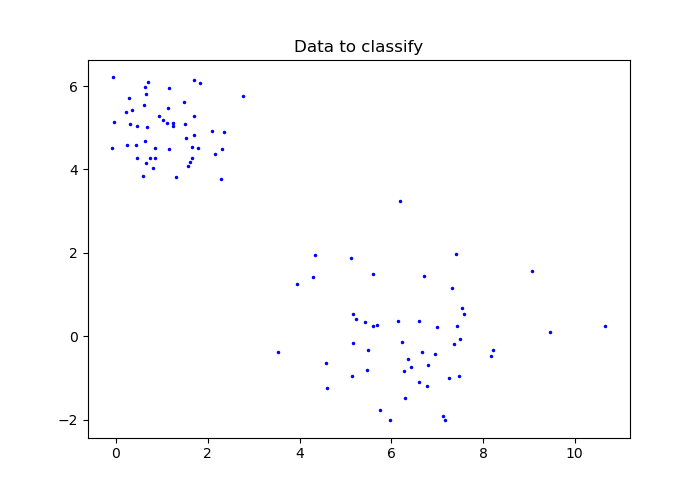
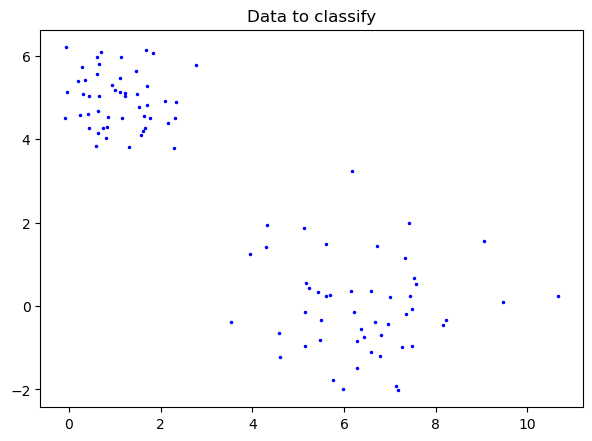
Better graphs for Mean-shift

diff --git a/OS16/TP_mean_shiftetu22.py b/OS16/TP_mean_shiftetu22.py
@@ -11,7 +11,7 @@ nu = Xu.shape[0]
 plt.figure(figsize=(7,5))
 plt.plot(Xu[:,0],Xu[:,1],'.b', markersize=3)
 plt.title('Data to classify')
-plt.savefig('Data_classify.png', dpi=100)
+plt.savefig('Data_classify.png', dpi=100, bbox_inches='tight', pad_inches=0.1)
 
 '''===================================='''
 # fonction pour déterminer le centre de gravite d'une ensemble de points 
@@ -59,14 +59,14 @@ plt.plot(suitepoints[-1,0],suitepoints[-1,1],'*r', markersize=4)
 
 #%%
 
-numero_pt = 19 #95 #19
+numero_pt = 95 #95 #19
 
 
 
-fig, ax = plt.subplots(4,2,figsize=(19,15))  
+fig, ax = plt.subplots(4,2,figsize=(15,15))  
 
 for i, epsilon in enumerate([10e-10,10e-1]):
-    for j, sigma in  enumerate([ 1, 5, 0.5, 0.1]):
+    for j, sigma in  enumerate([ 0.1, 0.5, 1, 5]):
         point = Xu[numero_pt,:]
         suitepoints = np.array ([point])
     
@@ -84,7 +84,8 @@ for i, epsilon in enumerate([10e-10,10e-1]):
         ax[j,i].plot(suitepoints[-1,0],suitepoints[-1,1],'*r', markersize=6)
         ax[j,i].set_title(f'Sigma {sigma} et epsilon {epsilon}')
 
-fig.suptitle(f'Mean-shift de point {numero_pt}', y=0.92, size=20)
+fig.suptitle(f'Mean-shift de point {numero_pt}', y=0.93, size=20)
+fig.savefig(f'Mean-shift de point {numero_pt}.png',bbox_inches='tight', pad_inches=0.1)
 #%%
 '''=============== meanshift pour un ensemble de points ====================='''
 # Recherche du point stationnaire pour chaque élément de l'ensemble Xu
@@ -128,11 +129,12 @@ for i in range(1,nu):
         classe[i] = np.argmin(dist)+1
 
 # tracé des points avec leur classe 
-plt.figure()
+fig, ax = plt.subplots(figsize=(7,5)) 
 colors = ['*r', '*b', '*k','*g', '*y', '*m']
 for i in range(K):
     index = classe==i+1
-    plt.plot(Xu[index,0], Xu[index,1], colors[i%6],markersize=3)
-    plt.plot(centres[i,0], centres[i,1],'.', color='cyan',markersize=10)
+    ax.plot(Xu[index,0], Xu[index,1], colors[i%6],markersize=3)
+    ax.plot(centres[i,0], centres[i,1],'.', color='cyan',markersize=10)
 
-
+fig.suptitle('Données classées avec leurs centres de gravité', y=0.94)
+fig.savefig('Données_classées.png',bbox_inches='tight', pad_inches=0.1, dpi=100)
